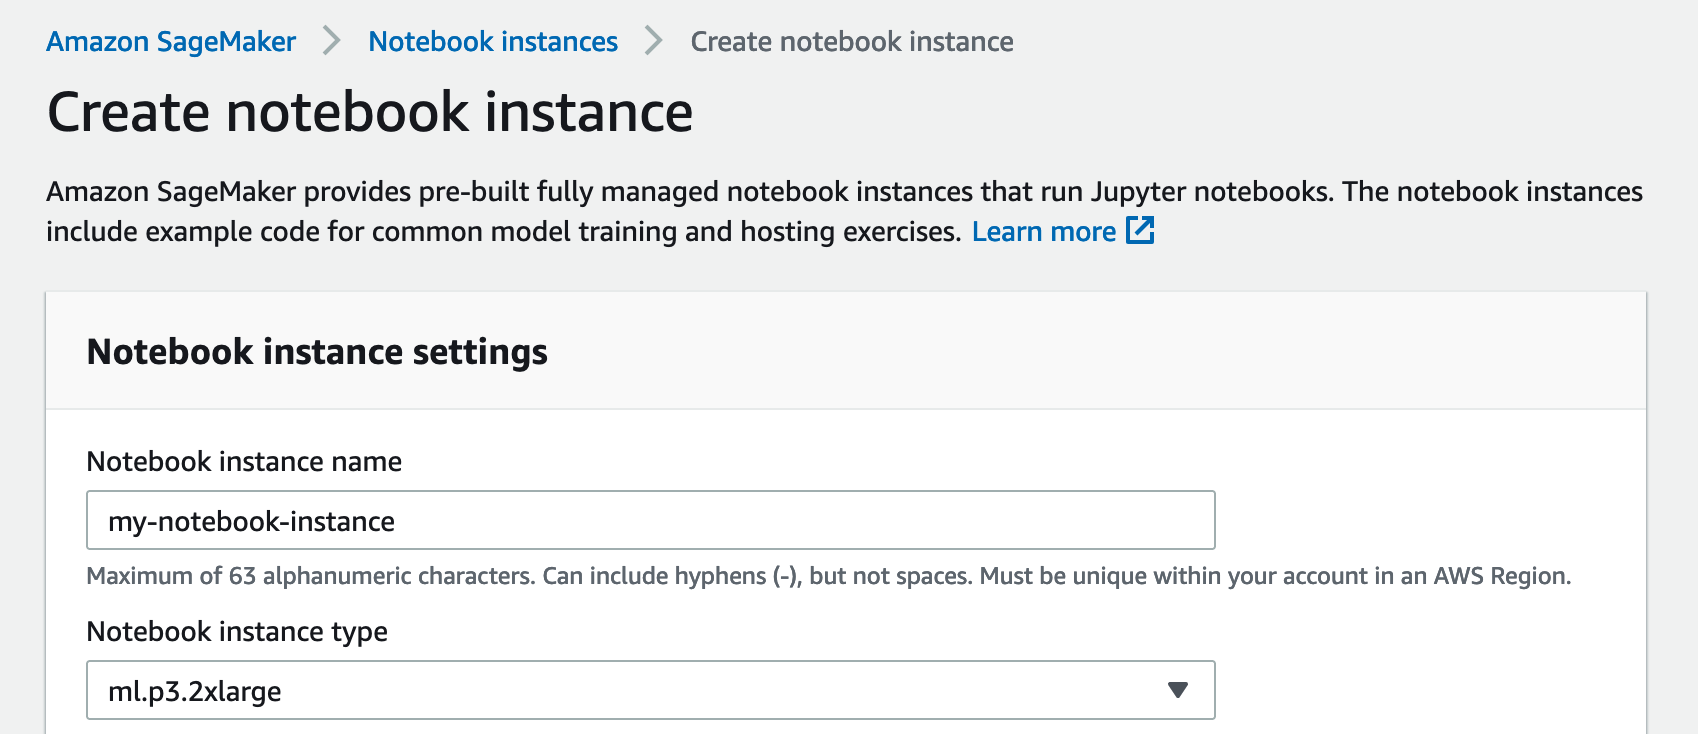
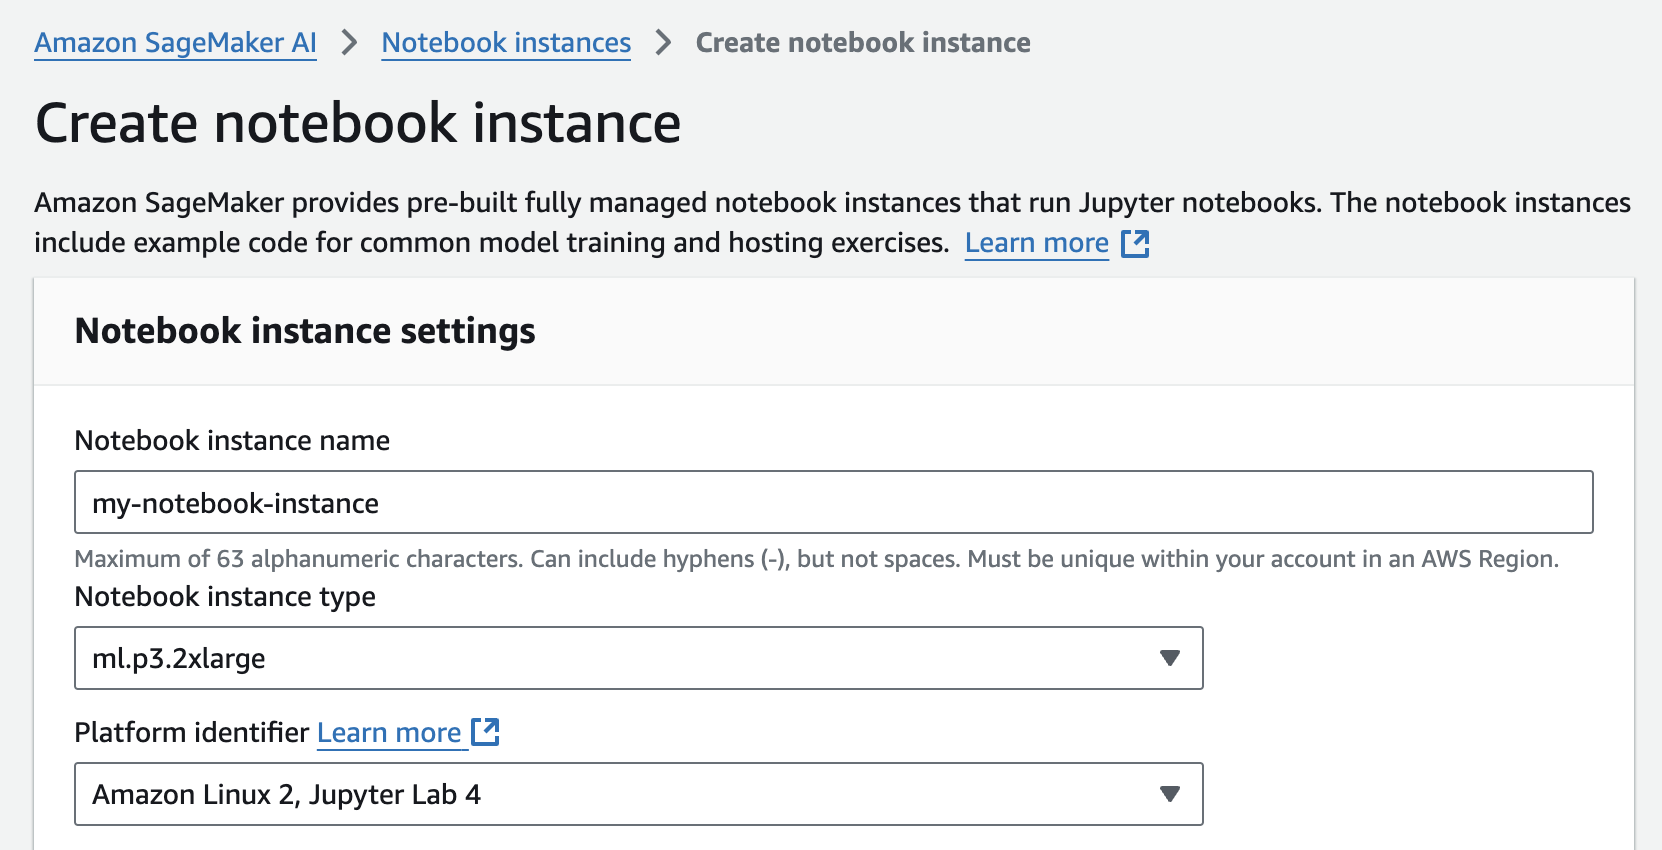
update screenshots, versions

diff --git a/source/conf.py b/source/conf.py
@@ -34,6 +34,9 @@ versions = {
         "rapids_conda_packages": f"rapids={stable_version} python=3.12 cuda-version=12.5",
         "rapids_pip_index": "https://pypi.nvidia.com",
         "rapids_pip_version": stable_version,
+        # SageMaker examples need to stay pinned to an older RAPIDS until this is resolved:
+        # https://github.com/rapidsai/deployment/issues/520
+        "rapids_sagemaker_conda_packages": f"rapids={stable_version} python=3.12 cuda-version=12.5",
     },
     "nightly": {
         "rapids_version": f"{nightly_version}-nightly",
@@ -44,6 +47,9 @@ versions = {
         "rapids_conda_packages": f"rapids={nightly_version} python=3.12 cuda-version=12.5",
         "rapids_pip_index": "https://pypi.anaconda.org/rapidsai-wheels-nightly/simple",
         "rapids_pip_version": f"{nightly_version}.*,>=0.0.0a0",
+        # SageMaker examples need to stay pinned to an older RAPIDS until this is resolved:
+        # https://github.com/rapidsai/deployment/issues/520
+        "rapids_sagemaker_conda_packages": f"rapids={stable_version} python=3.12 cuda-version=12.5",
     },
 }
 rapids_version = (

diff --git a/source/cloud/aws/sagemaker.md b/source/cloud/aws/sagemaker.md
@@ -10,16 +10,15 @@ RAPIDS can be used in a few ways with [AWS SageMaker](https://aws.amazon.com/sag
 
 To get started head to [the SageMaker console](https://console.aws.amazon.com/sagemaker/) and create a [new SageMaker Notebook Instance](https://console.aws.amazon.com/sagemaker/home#/notebook-instances/create).
 
-Choose `Notebook > Notebook Instances > Create notebook instance`.
+Choose `Applications and IDEs > Notebooks > Create notebook instance`.
 
 ### Select your instance
 
 If a field is not mentioned below, leave the default values:
 
-- **NOTEBOOK_INSTANCE_NAME** = Name of the notebook instance
-- **NOTEBOOK_INSTANCE_TYPE** = Type of notebook instance. Select a RAPIDS-compatible GPU ([see the RAPIDS docs](https://docs.rapids.ai/install#system-req)) as the SageMaker Notebook instance type (e.g., `ml.p3.2xlarge`).
-- **PLATFORM_IDENTIFIER** = 'Amazon Linux 2, Jupyter Lab 3'
-- **IAM_ROLE** = Create a new role > Create role
+- **Notebook instance name** = Name of the notebook instance
+- **Notebook instance type** = Type of notebook instance. Select a RAPIDS-compatible GPU ([see the RAPIDS docs](https://docs.rapids.ai/install#system-req)) as the SageMaker Notebook instance type (e.g., `ml.p3.2xlarge`).
+- **Platform identifier** = 'Amazon Linux 2, Jupyter Lab 4'
 
 ![Screenshot of the create new notebook screen with a ml.p3.2xlarge selected](../../images/sagemaker-create-notebook-instance.png)
 
@@ -29,7 +28,7 @@ If a field is not mentioned below, leave the default values:
 
 We can add a RAPIDS conda environment to the set of Jupyter ipython kernels available in our SageMaker notebook instance by installing in a [lifecycle configuration script](https://docs.aws.amazon.com/sagemaker/latest/dg/notebook-lifecycle-config.html).
 
-Create a new lifecycle configuration (via the 'Additional Options' dropdown).
+Create a new lifecycle configuration (via the 'Additional Configuration' dropdown).
 
 ![Screenshot of the create lifecycle configuration screen](../../images/sagemaker-create-lifecycle-configuration.png)
 
@@ -42,7 +41,7 @@ set -e
 
 sudo -u ec2-user -i <<'EOF'
 
-mamba create -y -n rapids {{ rapids_conda_channels }} {{ rapids_conda_packages }} \
+mamba create -y -n rapids {{ rapids_conda_channels }} {{ rapids_sagemaker_conda_packages }} \
     boto3 \
     ipykernel \
     'sagemaker-python-sdk>=2.239.0'
